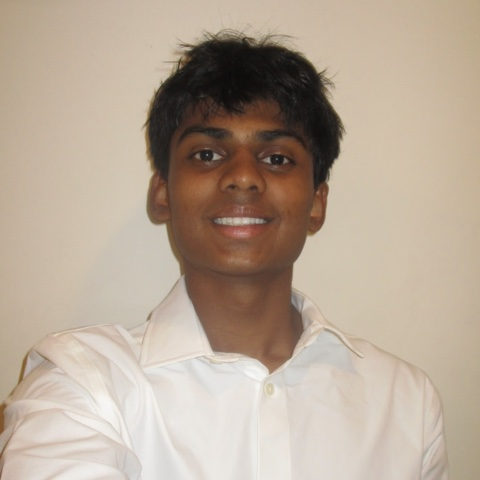
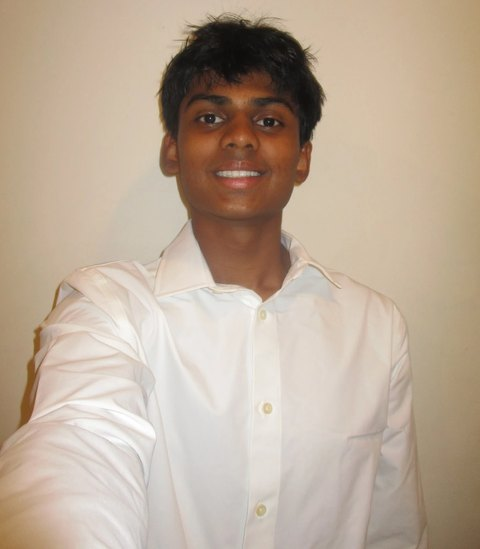
Profile photo: uncropped original in a larger soft-corner frame

diff --git a/404.html b/404.html
@@ -17,12 +17,12 @@
   <link rel="preconnect" href="https://fonts.googleapis.com">
   <link rel="preconnect" href="https://fonts.gstatic.com" crossorigin>
   <link rel="stylesheet" href="https://fonts.googleapis.com/css2?family=IBM+Plex+Mono:wght@400;500&family=Source+Serif+4:ital,opsz,wght@0,8..60,400;0,8..60,600;1,8..60,400&display=swap">
-  <link rel="stylesheet" href="/assets/style.css?v=8">
+  <link rel="stylesheet" href="/assets/style.css?v=9">
 </head>
 <body>
   <div class="wrap">
     <header class="site-header">
-      <div class="avatar"><img src="/assets/img/kishan.jpg" width="480" height="480" alt="Kishan Paschapur"></div>
+      <div class="avatar"><img src="/assets/img/kishan.jpg?v=2" width="480" height="549" alt="Kishan Paschapur"></div>
       <div>
         <p class="site-name"><a href="/">Kishan Paschapur</a></p>
         <p class="tagline">High school junior · ML research &amp; systems</p>

diff --git a/hackathons/index.html b/hackathons/index.html
@@ -17,12 +17,12 @@
   <link rel="preconnect" href="https://fonts.googleapis.com">
   <link rel="preconnect" href="https://fonts.gstatic.com" crossorigin>
   <link rel="stylesheet" href="https://fonts.googleapis.com/css2?family=IBM+Plex+Mono:wght@400;500&family=Source+Serif+4:ital,opsz,wght@0,8..60,400;0,8..60,600;1,8..60,400&display=swap">
-  <link rel="stylesheet" href="/assets/style.css?v=8">
+  <link rel="stylesheet" href="/assets/style.css?v=9">
 </head>
 <body>
   <div class="wrap">
     <header class="site-header">
-      <div class="avatar"><img src="/assets/img/kishan.jpg" width="480" height="480" alt="Kishan Paschapur"></div>
+      <div class="avatar"><img src="/assets/img/kishan.jpg?v=2" width="480" height="549" alt="Kishan Paschapur"></div>
       <div>
         <p class="site-name"><a href="/">Kishan Paschapur</a></p>
         <p class="tagline">High school junior · ML research &amp; systems</p>

diff --git a/index.html b/index.html
@@ -17,12 +17,12 @@
   <link rel="preconnect" href="https://fonts.googleapis.com">
   <link rel="preconnect" href="https://fonts.gstatic.com" crossorigin>
   <link rel="stylesheet" href="https://fonts.googleapis.com/css2?family=IBM+Plex+Mono:wght@400;500&family=Source+Serif+4:ital,opsz,wght@0,8..60,400;0,8..60,600;1,8..60,400&display=swap">
-  <link rel="stylesheet" href="/assets/style.css?v=8">
+  <link rel="stylesheet" href="/assets/style.css?v=9">
 </head>
 <body>
   <div class="wrap">
     <header class="site-header">
-      <div class="avatar"><img src="/assets/img/kishan.jpg" width="480" height="480" alt="Kishan Paschapur"></div>
+      <div class="avatar"><img src="/assets/img/kishan.jpg?v=2" width="480" height="549" alt="Kishan Paschapur"></div>
       <div>
         <p class="site-name"><a href="/">Kishan Paschapur</a></p>
         <p class="tagline">High school junior · ML research &amp; systems</p>

diff --git a/projects/index.html b/projects/index.html
@@ -17,12 +17,12 @@
   <link rel="preconnect" href="https://fonts.googleapis.com">
   <link rel="preconnect" href="https://fonts.gstatic.com" crossorigin>
   <link rel="stylesheet" href="https://fonts.googleapis.com/css2?family=IBM+Plex+Mono:wght@400;500&family=Source+Serif+4:ital,opsz,wght@0,8..60,400;0,8..60,600;1,8..60,400&display=swap">
-  <link rel="stylesheet" href="/assets/style.css?v=8">
+  <link rel="stylesheet" href="/assets/style.css?v=9">
 </head>
 <body>
   <div class="wrap">
     <header class="site-header">
-      <div class="avatar"><img src="/assets/img/kishan.jpg" width="480" height="480" alt="Kishan Paschapur"></div>
+      <div class="avatar"><img src="/assets/img/kishan.jpg?v=2" width="480" height="549" alt="Kishan Paschapur"></div>
       <div>
         <p class="site-name"><a href="/">Kishan Paschapur</a></p>
         <p class="tagline">High school junior · ML research &amp; systems</p>

diff --git a/research/index.html b/research/index.html
@@ -17,12 +17,12 @@
   <link rel="preconnect" href="https://fonts.googleapis.com">
   <link rel="preconnect" href="https://fonts.gstatic.com" crossorigin>
   <link rel="stylesheet" href="https://fonts.googleapis.com/css2?family=IBM+Plex+Mono:wght@400;500&family=Source+Serif+4:ital,opsz,wght@0,8..60,400;0,8..60,600;1,8..60,400&display=swap">
-  <link rel="stylesheet" href="/assets/style.css?v=8">
+  <link rel="stylesheet" href="/assets/style.css?v=9">
 </head>
 <body>
   <div class="wrap">
     <header class="site-header">
-      <div class="avatar"><img src="/assets/img/kishan.jpg" width="480" height="480" alt="Kishan Paschapur"></div>
+      <div class="avatar"><img src="/assets/img/kishan.jpg?v=2" width="480" height="549" alt="Kishan Paschapur"></div>
       <div>
         <p class="site-name"><a href="/">Kishan Paschapur</a></p>
         <p class="tagline">High school junior · ML research &amp; systems</p>

diff --git a/writing/dead-or-alive/index.html b/writing/dead-or-alive/index.html
@@ -17,12 +17,12 @@
   <link rel="preconnect" href="https://fonts.googleapis.com">
   <link rel="preconnect" href="https://fonts.gstatic.com" crossorigin>
   <link rel="stylesheet" href="https://fonts.googleapis.com/css2?family=IBM+Plex+Mono:wght@400;500&family=Source+Serif+4:ital,opsz,wght@0,8..60,400;0,8..60,600;1,8..60,400&display=swap">
-  <link rel="stylesheet" href="/assets/style.css?v=8">
+  <link rel="stylesheet" href="/assets/style.css?v=9">
 </head>
 <body>
   <div class="wrap">
     <header class="site-header">
-      <div class="avatar"><img src="/assets/img/kishan.jpg" width="480" height="480" alt="Kishan Paschapur"></div>
+      <div class="avatar"><img src="/assets/img/kishan.jpg?v=2" width="480" height="549" alt="Kishan Paschapur"></div>
       <div>
         <p class="site-name"><a href="/">Kishan Paschapur</a></p>
         <p class="tagline">High school junior · ML research &amp; systems</p>

diff --git a/assets/style.css b/assets/style.css
@@ -58,7 +58,7 @@ p { margin: 0 0 1em; }
   display: grid;
   grid-template-columns: auto 1fr;
   align-items: center;
-  gap: 10px 20px;
+  gap: 12px 26px;
 }
 
 .email {
@@ -72,14 +72,14 @@ p { margin: 0 0 1em; }
 
 .avatar {
   flex: none;
-  width: 132px;
-  height: 132px;
-  border-radius: 50%;
+  width: 184px;
+  aspect-ratio: 7 / 8;
+  border-radius: 18px;
   border: 2px solid var(--heading);
   background: var(--callout);
   overflow: hidden;
 }
-.avatar img { width: 100%; height: 100%; object-fit: cover; }
+.avatar img { display: block; width: 100%; height: 100%; object-fit: cover; object-position: bottom; }
 
 .site-name {
   margin: 0;
@@ -420,7 +420,7 @@ h2 {
     justify-items: start;
     gap: 14px;
   }
-  .avatar { width: 112px; height: 112px; }
+  .avatar { width: 150px; border-radius: 16px; }
   .site-name { font-size: 27px; }
   .site-nav { gap: 6px 20px; margin-top: 28px; }
   .news li,
